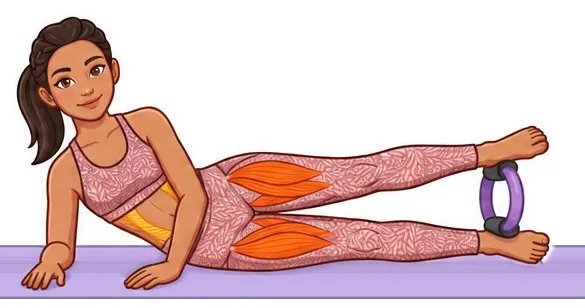
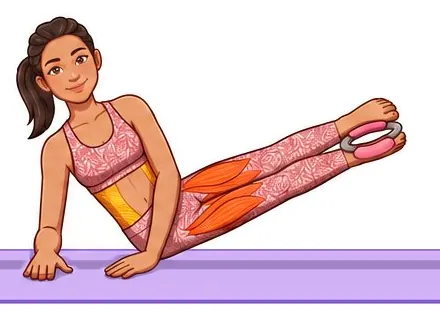
Aro de Pilates: cuatro ejercicios propios con aprieta/suelta guiados
Antes ring-adductor-lift y ring-legs-side eran movimientos de dos fases. Ahora cada uno es un
ejercicio con su propia tira (mujer y hombre): «Aro: aprieta entre rodillas» (ring-squeeze, vista
desde los pies para ver el aro aplastarse), «Aro: torso arriba» (ring-adductor-lift), «Aro: piernas
arriba» (ring-legs-up) y «Aro: lateral» (ring-legs-side, las dos piernas suben juntas). Dosis de
repeticiones, foco/apoyo, setup y respiración (suelta = inhala, aprieta = exhala).

Dynamic Reset 3×3 usa los cuatro en orden (bloque con pausa corta entre ejercicios) y el estado
guardado se migra (versión 6): los items antiguos con dosis de fases se convierten en los nuevos;
las dosis propias se respetan y el historial no se toca. El motor sigue aceptando dosis `phases`.
frames.js: las flechas aceptan `s` (escala) para pares cortos hacia el aro.

Claude-Session: https://claude.ai/code/session_01LTdatG86hVzh7JFC7J2E3b

diff --git a/docs/data/catalog.js b/docs/data/catalog.js
@@ -172,29 +172,31 @@ const MOVES1 = [
     dose: { type: 'reps', min: 10, max: 12, alternating: true }, imageStatus: 'vector',
   },
   {
-    id: 'ring-adductor-lift', name: 'Aro: aductores + torso arriba', category: 'core', equipment: ['aro', 'mat'],
+    id: 'ring-adductor-lift', name: 'Aro: torso arriba', category: 'core', equipment: ['aro', 'mat'],
     group: 'core', met: 3.5, level: 2,
     focus: ['Aductores', 'Recto abdominal'], support: ['Transverso abdominal'],
-    cue: 'Aprieta firme el aro entre las rodillas',
-    tips: ['Posición 1: boca arriba, aprieta y suelta el aro.', 'Posición 2: sube el torso apoyándote en las manos, sin soltar el aro.', 'Cuello largo, hombros relajados.'],
+    cue: 'Aprieta el aro y sube el torso; baja soltando',
+    setup: 'Boca arriba, rodillas dobladas y pies planos; el aro entre las rodillas.',
+    tips: ['Aprieta el aro mientras el torso sube sobre los antebrazos; al bajar, suelta despacio.', 'Exhala al subir y apretar; inhala al bajar y soltar.', 'Cuello largo, hombros relajados; los pies no se despegan.'],
     positions: [
-      { label: 'Foto 1', breath: 'in', verb: 'aprieta el aro', img: img('ring-adductor-lift', 1) },
-      { label: 'Foto 2', breath: 'ex', verb: 'sube el torso', img: img('ring-adductor-lift', 2) },
+      { label: 'Abajo, suelta', breath: 'in', verb: 'baja y suelta', img: img('ring-adductor-lift', 1) },
+      { label: 'Arriba, aprieta', breath: 'ex', verb: 'sube y aprieta', img: img('ring-adductor-lift', 2) },
     ],
-    dose: { type: 'phases', phases: [{ label: 'Posición 1', secs: 20, pos: 0 }, { label: 'Posición 2', secs: 20, pos: 1 }] }, imageStatus: 'final',
+    dose: { type: 'reps', min: 10, max: 12 }, imageStatus: 'final',
   },
   {
-    id: 'ring-legs-side', name: 'Aro: piernas arriba + lateral', category: 'core', equipment: ['aro', 'mat'],
-    group: 'core', met: 3.5, level: 2,
-    focus: ['Aductores', 'Transverso abdominal', 'Glúteo medio'], support: ['Oblicuos'],
-    cue: 'Aro firme entre los tobillos',
-    tips: ['Piernas arriba: torso apenas elevado, brazos largos, respira profundo.', 'De lado: apóyate en el antebrazo y eleva la pierna de arriba.', 'Mantén el abdomen activo todo el tiempo.'],
+    id: 'ring-legs-side', name: 'Aro: lateral', category: 'core', equipment: ['aro', 'mat'],
+    group: 'piernas', met: 3.5, level: 2,
+    focus: ['Glúteo medio', 'Aductores'], support: ['Oblicuos'],
+    cue: 'Aro firme entre los tobillos; las dos piernas suben juntas',
+    setup: 'De lado, apoyada en el antebrazo; el aro entre los tobillos.',
+    tips: ['Sube las dos piernas a la vez, apretando el aro; baja soltando despacio.', 'Exhala al subir y apretar; inhala al bajar.', 'Torso firme y abdomen activo; no te hundas sobre el hombro.'],
     positions: [
-      { label: 'Piernas arriba', breath: 'ex', verb: 'aprieta y respira', img: img('ring-legs-side', 1) },
-      { label: 'De lado', breath: 'ex', verb: 'eleva la pierna', img: img('ring-legs-side', 2) },
+      { label: 'Abajo, suelta', breath: 'in', verb: 'baja y suelta', img: img('ring-legs-side', 1) },
+      { label: 'Arriba, aprieta', breath: 'ex', verb: 'sube y aprieta', img: img('ring-legs-side', 2) },
     ],
     sided: true, mirror: true,
-    dose: { type: 'phases', phases: [{ label: 'Piernas arriba', secs: 20, pos: 0 }, { label: 'De lado', secs: 15, pos: 1, perSide: true }] }, imageStatus: 'final',
+    dose: { type: 'reps', min: 10, max: 12, perSide: true }, imageStatus: 'final',
   },
   {
     id: 'doorway-pec', name: 'Pectoral en marco de puerta', category: 'elongacion', equipment: ['puerta'],
@@ -250,7 +252,7 @@ const MOVES1 = [
   },
 ];
 
-// Catálogo completo (v1.7): los 17 movimientos originales + los 54 de moves2.js = 71.
+// Catálogo completo (v1.7): los 17 movimientos originales + los 56 de moves2.js = 73.
 export const CATEGORIES = [...CATEGORIES1, ...CATEGORIES2];
 export const EQUIPMENT = { ...EQUIPMENT1, ...EQUIPMENT2 };
 export const MOVES = [...MOVES1, ...MOVES2];

diff --git a/docs/js/store.js b/docs/js/store.js
@@ -4,7 +4,7 @@ import { entriesOf, replayMilestones } from './progress.js';
 import { cleanReminder } from './health.js';
 
 const KEY = 'ptw.state.v1';   // no cambiar: el esquema se versiona con `state.version`
-export const VERSION = 5;     // 2 = perfiles (v1.4) · 3 = tema/apariencia, meta semanal, hápticos (v1.5) · 4 = calorías, cuerpo, hitos (v1.6) · 5 = recordatorios por perfil y Salud (v1.8)
+export const VERSION = 6;     // 2 = perfiles (v1.4) · 3 = tema/apariencia, meta semanal, hápticos (v1.5) · 4 = calorías, cuerpo, hitos (v1.6) · 5 = recordatorios por perfil y Salud (v1.8) · 6 = aro: ejercicios separados (v1.11)
 
 export const DEFAULT_SETTINGS = {
   name: 'Anita',
@@ -87,8 +87,35 @@ function migrateReminders(s) {
   s.profiles.forEach((pr, i) => { pr.reminders = cleanReminder(pr.reminders || (i === 0 ? s.settings.reminders : null)); });
 }
 
+// v5 → v6 (v1.11): el aro se separó en ejercicios propios. Antes `ring-adductor-lift` (aprieta + torso arriba) y `ring-legs-side`
+// (piernas arriba + lateral) eran un solo movimiento de dos fases; ahora son ring-squeeze + ring-adductor-lift y ring-legs-up +
+// ring-legs-side, cada uno con su dosis por defecto. Solo se convierten los items sin dosis propia o con la dosis antigua de
+// fases (una dosis de repeticiones/tiempo elegida por la usuaria se respeta). En planes en pareja se divide solo si ambos
+// lados son del mismo tipo; si no, solo se cambia la dosis antigua por la nueva. No toca el historial.
+const RING_SPLIT = { 'ring-adductor-lift': 'ring-squeeze', 'ring-legs-side': 'ring-legs-up' };   // movimiento antiguo → el ejercicio que se agrega antes
+const oldRingDose = it => it && RING_SPLIT[it.move] && (!it.dose || it.dose.type === 'phases');
+function migrateRing(s) {
+  for (const p of s.plans) for (const sec of (p.sections || [])) {
+    if (!Array.isArray(sec.items)) continue;
+    const out = [];
+    for (const it of sec.items) {
+      const a = oldRingDose(it), b = it && it.b && oldRingDose(it.b);
+      if (!a && !b) { out.push(it); continue; }
+      const duo = !!(it.b);
+      if (duo && !(a && b && it.move === it.b.move)) {      // pareja con lados distintos: solo se quita la dosis de fases
+        const c = clone(it); if (a) delete c.dose; if (b) delete c.b.dose; out.push(c); continue;
+      }
+      const first = clone(it), second = clone(it);
+      for (const c of [first, second]) { delete c.dose; if (c.b) delete c.b.dose; }
+      first.move = RING_SPLIT[it.move]; if (first.b) first.b.move = RING_SPLIT[it.b.move];
+      out.push(first, second);
+    }
+    sec.items = out;
+  }
+}
+
 function initial() {
-  return { settings: { ...DEFAULT_SETTINGS }, plans: clone(DEFAULT_PLANS), activePlanId: DEFAULT_PLANS[0].id, history: [], hiddenBuiltins: [] };
+  return { version: VERSION, settings: { ...DEFAULT_SETTINGS }, plans: clone(DEFAULT_PLANS), activePlanId: DEFAULT_PLANS[0].id, history: [], hiddenBuiltins: [] };
 }
 
 export const store = {
@@ -108,12 +135,14 @@ export const store = {
     const needProgress = s.profiles.some(pr => !pr.milestones || !(pr.weeklyGoal >= 1));
     if (needProgress) migrateProgress(s);
     if (s.profiles.some(pr => !pr.reminders)) migrateReminders(s);
+    const ringOld = (s.version || 1) < 6;
+    if (ringOld) migrateRing(s);
     s.version = VERSION;
     // agrega planes nuevos que vengan con la app (sin pisar los editados)
     for (const p of DEFAULT_PLANS) if (!s.plans.some(x => x.id === p.id) && !s.hiddenBuiltins.includes(p.id)) s.plans.push(clone(p));
     if (!s.plans.some(p => p.id === s.activePlanId)) s.activePlanId = s.plans[0] ? s.plans[0].id : null;
     this.state = s;
-    if (migrated || needProgress) this.save();
+    if (migrated || needProgress || ringOld) this.save();
     return s;
   },
   save() { try { localStorage.setItem(KEY, JSON.stringify(this.state)); } catch (e) { console.warn(e); } },

diff --git a/docs/data/moves2.js b/docs/data/moves2.js
@@ -1,4 +1,4 @@
-// Catálogo v2: 54 movimientos nuevos (generado por project/tools/gen_moves2.py desde project/catalog_v2/moves.json).
+// Catálogo v2: 56 movimientos nuevos (generado por project/tools/gen_moves2.py desde project/catalog_v2/moves.json).
 // Misma forma que MOVES de catalog.js (+ group, sided, mirror, met, level, setup). Sin `img` por posición: usan fotogramas (ANIM).
 // Para integrar: concatenar MOVES2 a MOVES, y CATEGORIES2/EQUIPMENT2 a CATEGORIES/EQUIPMENT.
 
@@ -524,5 +524,25 @@ export const MOVES2 = [
     tips: ["Mancuernas apoyadas en los hombros, codos al frente.", "Baja hasta muslos paralelos; al subir, aprovecha el impulso para el press.", "Termina con brazos estirados y costillas abajo."],
     positions: [{ label: "Sentadilla", breath: "in", verb: "baja" }, { label: "Arriba", breath: "ex", verb: "sube y empuja" }],
     dose: {"type": "reps", "min": 8, "max": 12}, imageStatus: 'final',
+  },
+  {
+    id: "ring-squeeze", name: "Aro: aprieta entre rodillas", category: "core", equipment: ["aro", "mat"],
+    group: "piernas", sided: false, mirror: false, met: 3.0, level: 1,
+    focus: ["Aductores"], support: ["Transverso abdominal"],
+    cue: "Aprieta el aro con las rodillas y suelta despacio",
+    setup: "Boca arriba, rodillas dobladas y pies planos; el aro entre las rodillas.",
+    tips: ["Boca arriba, rodillas dobladas y pies planos; el aro entre las rodillas, con las almohadillas contra la parte interna de cada una.", "Exhala al apretar (1 segundo); inhala al soltar sin dejar caer el aro.", "Pelvis neutra, hombros y cuello relajados."],
+    positions: [{ label: "Suelta", breath: "in", verb: "suelta" }, { label: "Aprieta", breath: "ex", verb: "aprieta el aro" }],
+    dose: {"type": "reps", "min": 12, "max": 15}, imageStatus: 'final',
+  },
+  {
+    id: "ring-legs-up", name: "Aro: piernas arriba", category: "core", equipment: ["aro", "mat"],
+    group: "core", sided: false, mirror: false, met: 3.5, level: 2,
+    focus: ["Aductores", "Transverso abdominal"], support: ["Recto abdominal", "Psoas"],
+    cue: "Aro firme entre los tobillos; sube las piernas apretando",
+    setup: "Boca arriba, cabeza y hombros apenas elevados; el aro entre los tobillos.",
+    tips: ["Cabeza y hombros apenas elevados, brazos largos hacia adelante.", "Sube las piernas casi verticales apretando el aro; baja soltando sin apoyar los pies.", "Exhala al subir y apretar; inhala al bajar. Lumbar pegada al mat."],
+    positions: [{ label: "Abajo, suelta", breath: "in", verb: "baja y suelta" }, { label: "Arriba, aprieta", breath: "ex", verb: "sube y aprieta" }],
+    dose: {"type": "reps", "min": 10, "max": 12}, imageStatus: 'final',
   },
 ];

diff --git a/docs/js/frames.js b/docs/js/frames.js
@@ -53,7 +53,7 @@ class ArrowLayer {
     this.key = null;
   }
   setAspect(ar) { if (ar && ar !== this.ar) { this.ar = ar; this.svg.setAttribute('viewBox', `0 0 ${ar} 1`); this.key = null; } }
-  // arrows: [{from,to,curve}] en 0..1; reversed: invierte el sentido
+  // arrows: [{from,to,curve,s?}] en 0..1 (hasta 2 por transición; s = escala del trazo); reversed: invierte el sentido (al volver, las flechas por pares salen hacia afuera)
   set(arrows, reversed, key) {
     if (key === this.key) return;
     this.key = key;
@@ -63,12 +63,15 @@ class ArrowLayer {
       s.on = !!a; s.q = null;
       if (!a) { s.g.style.opacity = 0; return; }
       let p0 = a.from, p1 = a.to, c = a.curve || 0;
+      const sc = a.s || 1;                                   // escala (flechas cortas por pares, p. ej. el aro: s ≈ 0,75)
       if (reversed) { [p0, p1] = [p1, p0]; c = -c; }
       const P0 = [p0[0] * ar, p0[1]], P1 = [p1[0] * ar, p1[1]];
       const dx = P1[0] - P0[0], dy = P1[1] - P0[1], L = Math.hypot(dx, dy) || 1e-6;
       const C = [(P0[0] + P1[0]) / 2 - dy / L * c * L, (P0[1] + P1[1]) / 2 + dx / L * c * L];
       let tx = P1[0] - C[0], ty = P1[1] - C[1]; const tl = Math.hypot(tx, ty) || 1e-6; tx /= tl; ty /= tl;
-      const hl = Math.min(0.09, Math.max(0.055, L * 0.3)), hw = hl * 0.45;
+      const hl = Math.min(0.09, Math.max(0.055, L * 0.3)) * sc, hw = hl * 0.45;
+      s.halo.setAttribute('stroke-width', 0.034 * sc); s.line.setAttribute('stroke-width', 0.016 * sc);
+      s.hh.setAttribute('stroke-width', 0.02 * sc); s.head.setAttribute('stroke-width', 0.006 * sc);
       const E = [P1[0] - tx * hl * 0.75, P1[1] - ty * hl * 0.75];
       const d = `M${P0[0]} ${P0[1]} Q${C[0]} ${C[1]} ${E[0]} ${E[1]}`;
       const B = [P1[0] - tx * hl, P1[1] - ty * hl];

diff --git a/docs/data/plans.js b/docs/data/plans.js
@@ -46,11 +46,13 @@ const PLANS1 = [
         ],
       },
       {
-        id: 'B3', name: 'Core y Pilates con aro', note: 'Estabilidad de core + circuito de aro.',
-        kind: 'circuit', rounds: 3, rest: 45,
+        id: 'B3', name: 'Core y Pilates con aro', note: 'Estabilidad de core + circuito de aro (cada ejercicio: aprieta y suelta).',
+        kind: 'circuit', rounds: 3, rest: 45, gap: 5,
         items: [
           { move: 'dead-bug', dose: { type: 'reps', min: 10, max: 12, alternating: true } },
+          { move: 'ring-squeeze' },
           { move: 'ring-adductor-lift' },
+          { move: 'ring-legs-up' },
           { move: 'ring-legs-side' },
         ],
       },

diff --git a/project/tools/gen_moves2.py b/project/tools/gen_moves2.py
@@ -20,6 +20,8 @@ SETUP = {
     'banded-bridge': 'Mini banda justo sobre las rodillas.',
     'clamshell': 'Mini banda justo sobre las rodillas; pies y caderas apilados.',
     'ring-bridge': 'Aro entre las rodillas, a la altura de los muslos.',
+    'ring-squeeze': 'Boca arriba, rodillas dobladas y pies planos; el aro entre las rodillas.',
+    'ring-legs-up': 'Boca arriba, cabeza y hombros apenas elevados; el aro entre los tobillos.',
     'ring-chest-press': 'Aro entre las palmas, a la altura del pecho.',
     'hamstring-stretch-supine': 'Banda (o toalla) alrededor de la planta del pie estirado.',
     'floor-fly': 'Mancuernas ligeras; los codos no bajan del nivel del suelo.',
@@ -31,7 +33,7 @@ SETUP = {
     'mountain-climber-slow': 'Plancha alta sobre el mat, manos bajo los hombros.',
 }
 def js(v): return json.dumps(v, ensure_ascii=False)
-out = ['// Catálogo v2: 54 movimientos nuevos (generado por project/tools/gen_moves2.py desde project/catalog_v2/moves.json).',
+out = ['// Catálogo v2: 56 movimientos nuevos (generado por project/tools/gen_moves2.py desde project/catalog_v2/moves.json).',
        '// Misma forma que MOVES de catalog.js (+ group, sided, mirror, met, level, setup). Sin `img` por posición: usan fotogramas (ANIM).',
        '// Para integrar: concatenar MOVES2 a MOVES, y CATEGORIES2/EQUIPMENT2 a CATEGORIES/EQUIPMENT.',
        '',
